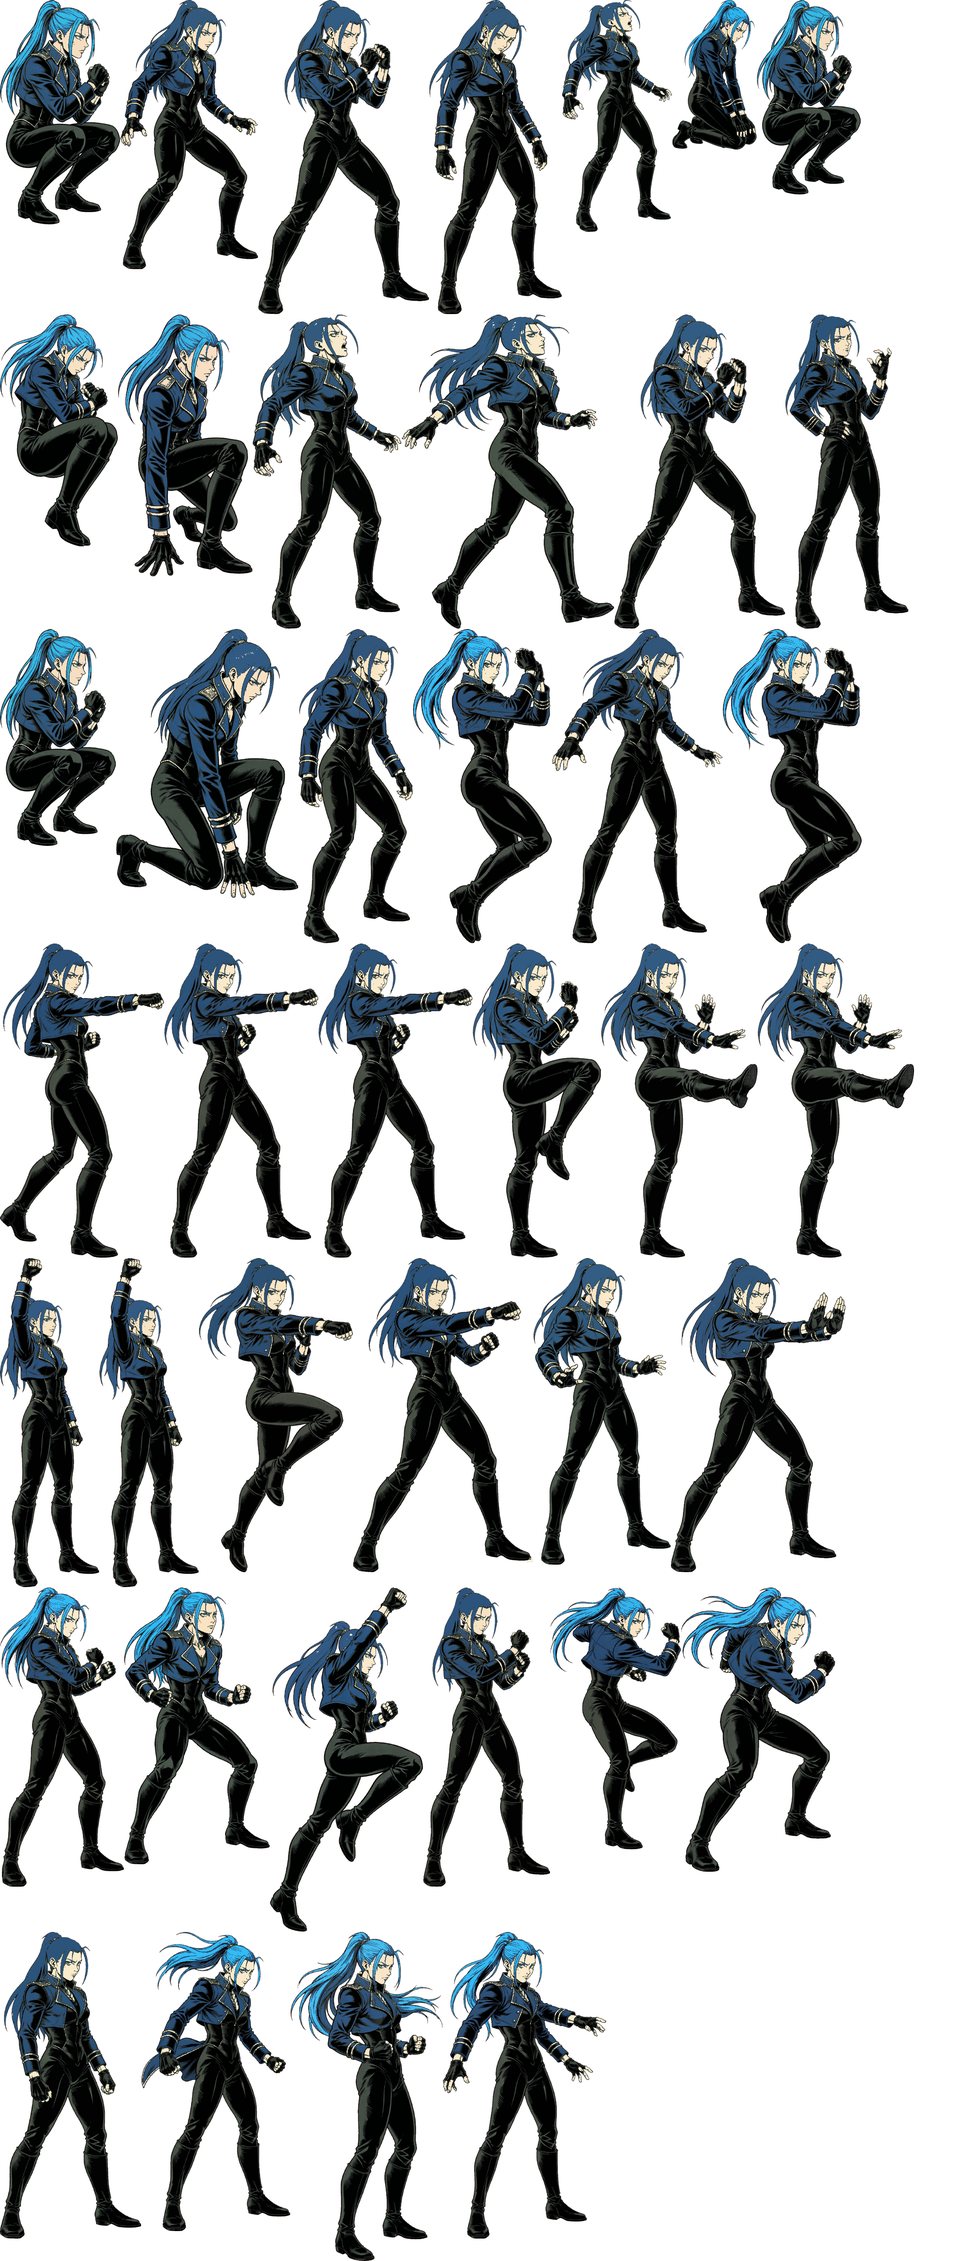
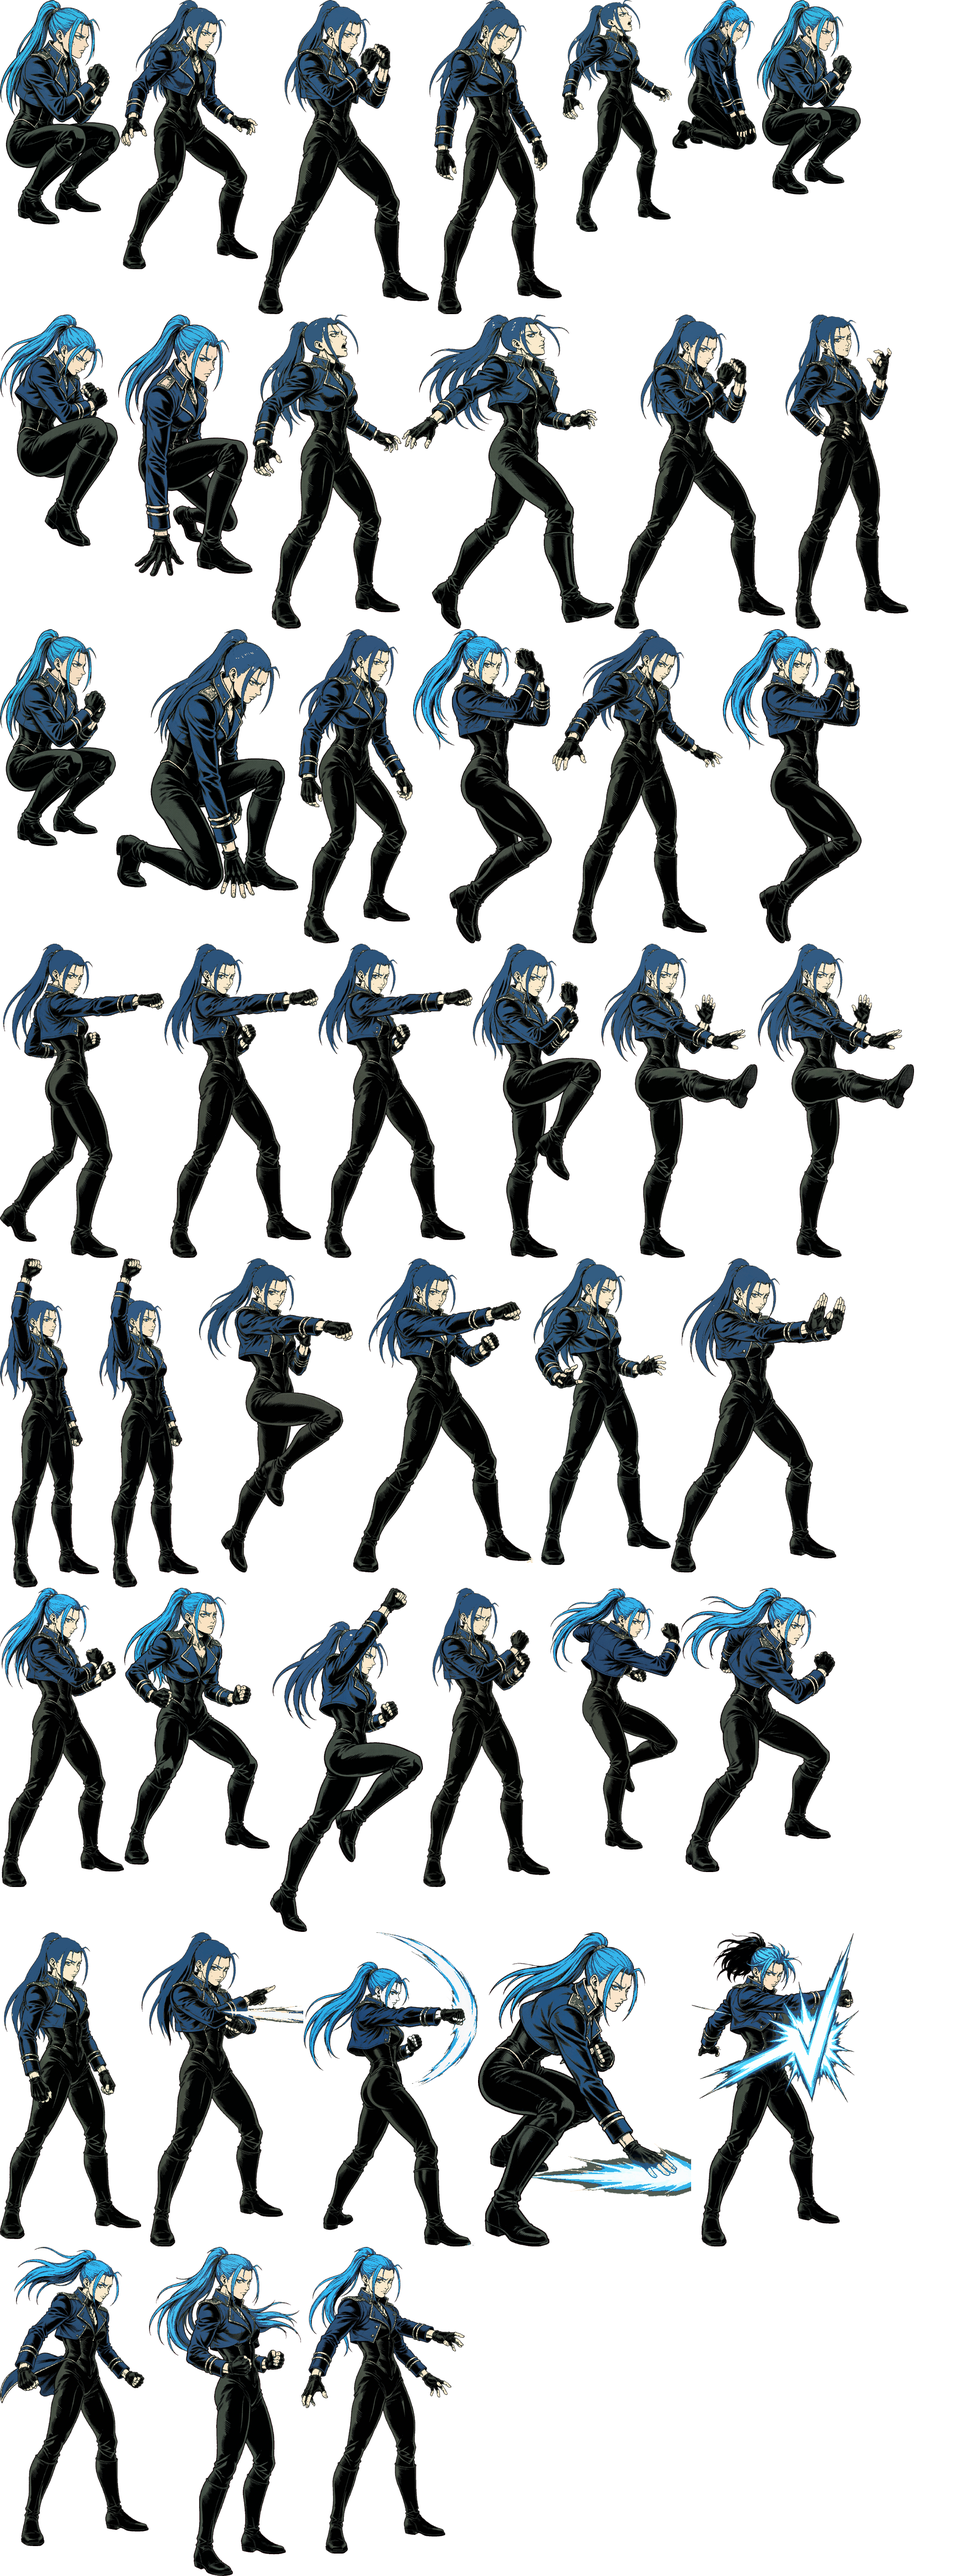
批次 20261027-0738 · [T263→T264] 动作专属化 12/27：Yuri + Leona 各 4 招
改了什么：
- gen-poses 加 8 条（Yuri：粉白气弹/粉色气浪/缠气高踢/巨大粉色气柱；
  Leona：蓝白光刃/弧月光刃/贴地光痕/V 字光刃）
- build-sheet 加 yurispecial1-3 + yurisuper、leonaspecial1-3 + leonasuper，
  并更新 EXCLUSIVE_OWNER
- poses.ts 加 8 个兜底（key 与 anim 名一致，上一批踩过这个坑）
- yuri.ts / leona.ts 各改 5 处

同名招式的处理：Yuri 和獠都有「虎煌拳」「覇王翔吼拳」，但 Yuri 是短裙元气 + 粉白气、
獠是白道服刚猛 + 橙黄气——同名不同气质。

怎么验证的：打包两个角色都检查了错误（grep -qi error），失败=0；art:check 通过；
npm run check 995 条全绿；变体 orochi_leona 已重派生

diff --git a/src/render/poses.ts b/src/render/poses.ts
@@ -601,6 +601,15 @@ export const POSE_LIBRARY: Record<string, Pose> = {
   robspecial2: { frameDuration: 1, loop: false, exclusive: 'robert', frames: [f({ head: p(3, -70), neck: p(2, -60), hip: p(0, -38), legFront: [p(18, -50), p(28, -44)], legBack: [p(-8, -26), p(-10, -6)] })] },
   robspecial3: { frameDuration: 1, loop: false, exclusive: 'robert', frames: [f({ head: p(1, -74), neck: p(1, -64), hip: p(0, -41), legFront: [p(14, -58), p(16, -82)], legBack: [p(-6, -22), p(-6, -1)] })] },
   robsuper: { frameDuration: 1, loop: false, exclusive: 'robert', frames: [f({ head: p(3, -68), neck: p(3, -58), hip: p(0, -37), armFront: [p(16, -56), p(28, -50)], armBack: [p(-6, -54), p(-12, -48)] })] },
+  // Yuri / Leona 专属必杀的兜底（key 必须与 anim 名一致）
+  yurispecial1: { frameDuration: 1, loop: false, exclusive: 'yuri', frames: [f({ head: p(4, -68), neck: p(4, -58), hip: p(1, -37), armFront: [p(16, -58), p(30, -56)], armBack: [p(-10, -52), p(-16, -46)] })] },
+  yurispecial2: { frameDuration: 1, loop: false, exclusive: 'yuri', frames: [f({ head: p(5, -68), neck: p(5, -58), hip: p(1, -37), armFront: [p(18, -56), p(30, -54)], armBack: [p(6, -56), p(18, -54)] })] },
+  yurispecial3: { frameDuration: 1, loop: false, exclusive: 'yuri', frames: [f({ head: p(-1, -72), neck: p(-1, -62), hip: p(0, -40), legFront: [p(16, -54), p(22, -74)], legBack: [p(-6, -22), p(-6, -1)] })] },
+  yurisuper: { frameDuration: 1, loop: false, exclusive: 'yuri', frames: [f({ head: p(-1, -70), neck: p(-1, -60), hip: p(0, -38), armFront: [p(16, -58), p(32, -56)], armBack: [p(8, -58), p(22, -56)] })] },
+  leonaspecial1: { frameDuration: 1, loop: false, exclusive: 'leona', frames: [f({ head: p(2, -64), neck: p(2, -54), hip: p(-1, -34), armFront: [p(14, -52), p(24, -46)], armBack: [p(-14, -52), p(-24, -46)] })] },
+  leonaspecial2: { frameDuration: 1, loop: false, exclusive: 'leona', frames: [f({ head: p(3, -66), neck: p(3, -56), hip: p(0, -36), armFront: [p(12, -60), p(18, -30)], armBack: [p(-8, -50), p(-12, -42)] })] },
+  leonaspecial3: { frameDuration: 1, loop: false, exclusive: 'leona', frames: [f({ head: p(4, -54), neck: p(4, -46), hip: p(-2, -28), armFront: [p(14, -34), p(24, -20)], armBack: [p(-10, -46), p(-16, -38)] })] },
+  leonasuper: { frameDuration: 1, loop: false, exclusive: 'leona', frames: [f({ head: p(0, -70), neck: p(0, -60), hip: p(0, -38), armFront: [p(16, -58), p(30, -54)], armBack: [p(-14, -58), p(-28, -54)] })] },
   /** 升龙系：整个人向上冲，手臂上举 */
   specialUppercut: {
     frameDuration: 1,

diff --git a/src/data/chars/leona.ts b/src/data/chars/leona.ts
@@ -27,7 +27,7 @@ export const LEONA: CharDef = {
 
     // ---------------------------------------------------------------- 必杀技
     // ボルテックランチャー：长距气刃（近身判定很长）
-    '236A': mv('236A', 'ボルテックランチャー', 'special', 40, 'special', [
+    '236A': mv('236A', 'ボルテックランチャー', 'leonaspecial1', 40, 'special', [
       hit('h1', {
         box: { x: 18, y: -62, w: 54, h: 26 },
         frames: [12, 16],
@@ -41,7 +41,7 @@ export const LEONA: CharDef = {
     ], { input: { motion: '236', buttons: ['A'] } }),
 
     // ムーンスラッシャー：突进斜斩
-    '214B': mv('214B', 'ムーンスラッシャー', 'kickHeavy', 38, 'special', [
+    '214B': mv('214B', 'ムーンスラッシャー', 'leonaspecial2', 38, 'special', [
       hit('h1', {
         box: { x: 14, y: -70, w: 36, h: 34 },
         frames: [10, 14],
@@ -55,7 +55,7 @@ export const LEONA: CharDef = {
     ], { input: { motion: '214', buttons: ['B'] }, travel: 58, travelFrames: 15 }),
 
     // グランドセイバー：无敌升龙斩
-    '623A': mv('623A', 'グランドセイバー', 'special', 42, 'special', [
+    '623A': mv('623A', 'グランドセイバー', 'leonaspecial3', 42, 'special', [
       hit('h1', {
         box: { x: 6, y: -90, w: 30, h: 64 },
         frames: [4, 11],
@@ -91,7 +91,7 @@ export const LEONA: CharDef = {
     }),
 
     // ---------------------------------------------------------------- 超必杀
-    '236236A': mv('236236A', 'Vスラッシャー', 'special', 66, 'super', [
+    '236236A': mv('236236A', 'Vスラッシャー', 'leonasuper', 66, 'super', [
       hit('h1', { box: { x: 10, y: -76, w: 40, h: 34 }, frames: [8, 12], damage: 44, hitStun: 18, hitstop: 8, meterGain: 0 }),
       hit('h2', { box: { x: 10, y: -78, w: 42, h: 40 }, frames: [18, 22], damage: 40, hitStun: 18, hitstop: 8, meterGain: 0 }),
       hit('h3', { box: { x: 10, y: -80, w: 44, h: 50 }, frames: [28, 32], damage: 40, hitStun: 18, hitstop: 8, meterGain: 0 }),
@@ -106,7 +106,7 @@ export const LEONA: CharDef = {
       }),
     ], { input: { motion: '236236', buttons: ['A'] }, meterCost: 100, travel: 60, travelFrames: 12 }),
 
-    '214214A': mv('214214A', 'リボルブブラスター', 'special', 60, 'super', [], {
+    '214214A': mv('214214A', 'リボルブブラスター', 'leonasuper', 60, 'super', [], {
       input: { motion: '214214', buttons: ['A'] },
       meterCost: 50,
       projectile: {

diff --git a/src/data/chars/yuri.ts b/src/data/chars/yuri.ts
@@ -26,7 +26,7 @@ export const YURI: CharDef = {
 
     // ---------------------------------------------------------------- 必杀技
     // 虎煌拳：小型气弹
-    '236A': mv('236A', '虎煌拳', 'special', 34, 'special', [], {
+    '236A': mv('236A', '虎煌拳', 'yurispecial1', 34, 'special', [], {
       input: { motion: '236', buttons: ['A'] },
       projectile: {
         anim: '虎煌拳',
@@ -60,7 +60,7 @@ export const YURI: CharDef = {
     ], { input: { motion: '623', buttons: ['A'] }, invuln: [{ frames: [1, 4], kind: 'full' }] }),
 
     // 百合脚：回旋踢（中段）
-    '214B': mv('214B', '百合脚', 'kickHeavy', 36, 'special', [
+    '214B': mv('214B', '百合脚', 'yurispecial3', 36, 'special', [
       hit('h1', {
         box: { x: 10, y: -66, w: 32, h: 22 },
         frames: [11, 15],
@@ -76,7 +76,7 @@ export const YURI: CharDef = {
     ], { input: { motion: '214', buttons: ['B'] }, travel: 46, travelFrames: 14 }),
 
     // 百烈拳：小连打
-    '236C': mv('236C', '百烈拳', 'punchLight', 38, 'special', [
+    '236C': mv('236C', '百烈拳', 'yurispecial2', 38, 'special', [
       hit('h1', { box: { x: 10, y: -62, w: 28, h: 14 }, frames: [7, 9], damage: 22, hitStun: 12, hitstop: 5, meterGain: 4 }),
       hit('h2', { box: { x: 10, y: -62, w: 28, h: 14 }, frames: [12, 14], damage: 20, hitStun: 12, hitstop: 5, meterGain: 4 }),
       hit('h3', {
@@ -91,7 +91,7 @@ export const YURI: CharDef = {
     ], { input: { motion: '236', buttons: ['C'] } }),
 
     // ---------------------------------------------------------------- 超必杀
-    '236236A': mv('236236A', '覇王翔吼拳', 'special', 58, 'super', [], {
+    '236236A': mv('236236A', '覇王翔吼拳', 'yurisuper', 58, 'super', [], {
       input: { motion: '236236', buttons: ['A'] },
       meterCost: 50,
       projectile: {
@@ -112,7 +112,7 @@ export const YURI: CharDef = {
       },
     }),
 
-    '236236C': mv('236236C', '覇王天翔翼', 'special', 70, 'super', [
+    '236236C': mv('236236C', '覇王天翔翼', 'yurisuper', 70, 'super', [
       hit('h1', { box: { x: 8, y: -80, w: 34, h: 56 }, frames: [8, 12], damage: 42, hitStun: 18, hitstop: 8, meterGain: 0 }),
       hit('h2', { box: { x: 8, y: -80, w: 34, h: 56 }, frames: [18, 22], damage: 38, hitStun: 18, hitstop: 8, meterGain: 0 }),
       hit('h3', { box: { x: 8, y: -84, w: 36, h: 60 }, frames: [28, 32], damage: 38, hitStun: 18, hitstop: 8, meterGain: 0 }),

diff --git a/docs/MOVE-PER-CHAR.md b/docs/MOVE-PER-CHAR.md
@@ -70,8 +70,8 @@ mv('236A', '百拾四式・荒咬', 'punchLight', 26, 'special', [...])
 | 6 | Joe joe | 爆裂拳 / 虎破脚 / 竜巻旋風脚 / スクリューアッパー | **done** |
 | 7 | 坂崎リョウ ryo | 虎煌拳 / 暫烈拳 / 飛燕疾風脚 / 覇王翔吼拳 | **done** |
 | 8 | ロバート robert | 龍撃拳 / 幻影脚・連 / 昇龍脚 / 龍虎乱舞 | **done** |
-| 9 | ユリ yuri | ユリ閃光拳 / 百烈びんた / サイキックボール / 覇王翔吼拳 | - |
-| 10 | レオナ leona | ムーンストライク / グランドセイバー / Xキャリバー / リボルブブラスター | - |
+| 9 | ユリ yuri | 虎煌拳 / 百烈拳 / 百合脚 / 覇王翔吼拳 | **done** |
+| 10 | レオナ leona | ボルテックランチャー / ムーンスラッシャー / グランドセイバー / Vスラッシャー | **done** |
 | 11 | ラルフ ralf | バルカンパンチ / ギャラクティカファントム / ラルフキック / スーパーダブルウルフ | - |
 | 12 | クラーク clark | バルカンパンチ / アージェントナックル / シャイニングウィザード / ウルトラアージェント | - |
 | 13 | アテナ athena | サイコボール / サイコソード / フェニックスアロー / シャイニングクリスタルビット | **done** |
@@ -90,7 +90,7 @@ mv('236A', '百拾四式・荒咬', 'punchLight', 26, 'special', [...])
 | 26 | 暴走庵 orochi_iori | 百八式・闇払い / 百式・鬼焼き / 屑風 / 禁千弐百拾八式・八稚女 | - |
 | 27 | 覚醒レオナ orochi_leona | グランドセイバー / ムーンストライカー / Xキャリバー / リボルブブラスター | - |
 
-**完成度：10 / 27**
+**完成度：12 / 27**
 
 ## 六、已完成记录
 
@@ -239,6 +239,30 @@ benispecial1: {
 | 幻影脚・連（214A） | `robspecial2` | 连踢、**腿影拉出残像** |
 | 昇龍脚（623B） | `robspecial3` | 跃起上踢、腿部青白气流 |
 | 龍虎乱舞（超必杀） | `robsuper` | 拳脚交替、**全身青白气流环绕** |
+
+### 11. Yuri（done）
+
+空手道 + 元气少女、粉白色气、动作轻巧：
+
+| 招式 | 专属动画 | 出图效果 |
+|---|---|---|
+| 虎煌拳（236A） | `yurispecial1` | 掌前飞出**粉白气弹** |
+| 百烈拳（236C） | `yurispecial2` | 连打、拳前粉色气浪 |
+| 百合脚（214B） | `yurispecial3` | 高踢、脚踝拖粉白气流 |
+| 覇王翔吼拳（超必杀） | `yurisuper` | **巨大粉色气柱** |
+
+> 和獠的虎煌拳/覇王翔吼拳**同名**，但一个是白道服刚猛橙黄、一个是短裙元气粉白。
+
+### 12. Leona（done）
+
+军用格斗、冷峻、蓝白光刃：
+
+| 招式 | 专属动画 | 出图效果 |
+|---|---|---|
+| ボルテックランチャー（236A） | `leonaspecial1` | 指尖甩出**蓝白光刃** |
+| ムーンスラッシャー（214B） | `leonaspecial2` | 手臂拉出**弧月形光刃** |
+| グランドセイバー（623A） | `leonaspecial3` | 贴地斩、地面擦出光痕 |
+| Vスラッシャー（超必杀） | `leonasuper` | **巨大 V 字形光刃** |
 
 ## 七、执行约定
 

diff --git a/.continue/doing/59bce7.md b/.continue/doing/59bce7.md
@@ -1,0 +1,13 @@
+# 队列 · 会话 59bce766a368447cf9cf15c7e36322c83
+
+> 状态：执行中
+> 创建：2026-10-27
+> 批次：20261027-0738
+
+> 本批目标：动作专属化第 11、12 个角色（Yuri、Leona）。
+
+- [x] [T264] Yuri + Leona 各 4 个必杀专属动作（12/27）→ 出图 + 数据 + 打包验证
+  - 做了什么：①`gen-poses.mjs` 加 8 条（Yuri：粉白气弹/粉色气浪/缠气高踢/巨大粉色气柱；Leona：蓝白光刃/弧月光刃/贴地光痕/V 字光刃）；②`build-sheet.mjs` 加 `yurispecial1-3`+`yurisuper`、`leonaspecial1-3`+`leonasuper`，并更新 `EXCLUSIVE_OWNER`；③`poses.ts` 加 8 个兜底（key **与 anim 名一致**，上一批踩过这个坑）；④`yuri.ts`/`leona.ts` 各改 5 处
+  - **同名招式的处理**：Yuri 和獠都有「虎煌拳」「覇王翔吼拳」，但 Yuri 是短裙元气 + 粉白气、獠是白道服刚猛 + 橙黄气——同名不同气质
+  - 验证：打包两个角色**都检查了错误**（`grep -qi error`），失败=0；`art:check` 通过；`npm run check` **995 条全绿**；变体 `orochi_leona` 已重派生
+  - 批次：20261027-0738

diff --git a/.continue/TASKS.md b/.continue/TASKS.md
@@ -282,3 +282,4 @@
 - [x] T261 姿势 exclusive 自声明机制 + 动作专属化 6/27（红丸/大门）
 - [x] T262 角色动作专属化 8/27：Andy + Joe 各 4 招；修 exclusive 动画被跨角色打包的 bug
 - [x] T263 角色动作专属化 10/27：獠（橙黄气）+ Robert（青白气）各 4 招
+- [x] T264 角色动作专属化 12/27：Yuri（粉白气）+ Leona（蓝白光刃）各 4 招
